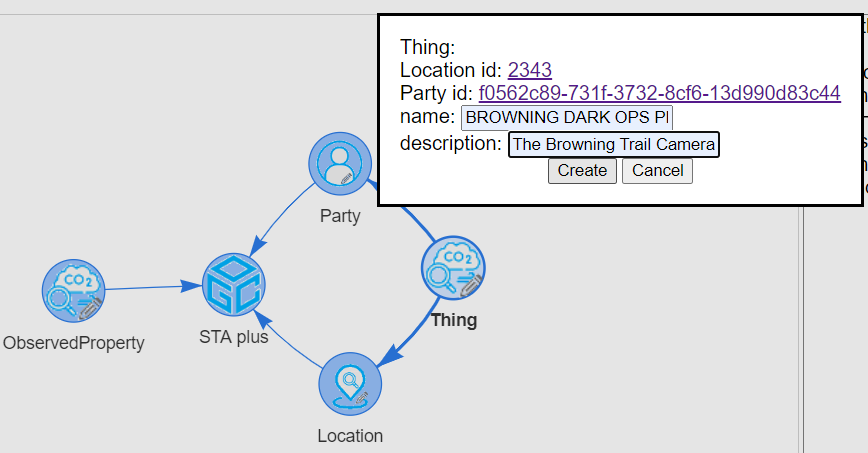
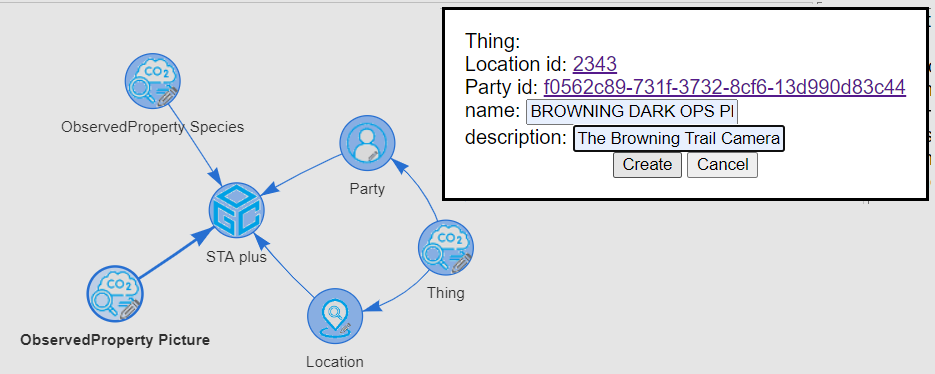
Finalizing recipe 06

Changed region(s): [[0.0, 0.0, 1.0, 1.0], [0.1244, 0.1471, 0.2177, 0.2941], [0.0622, 0.3235, 0.28, 0.3824]]

diff --git a/help/index.htm b/help/index.htm
@@ -77,7 +77,7 @@ The workspace of Tapis can be divided in the following areas
 
 <a id="helpStart"></a>
 <h3>How start with TAPIS</h3>
-The first thing that you need to do in Tapis is page a starting node in the network area. Examples of starting nodes are "Add STA service",  "Import CSV file" or Import GeoJSON file. Clicking on them in the <i>button area</i> will place them in the <i>network area</i>. Double clicking on their representation in the network area will make appear dialog box to specify the parameters necessary to import the data in Tapis. After accepting the options messages about the progress and eventual errors will appear in the <i>Information area</i>. The result of the operation will be represented as a table in the <i>Query and table area</i> (a STA query will also be shown if the node is a STA node; the ones with blue icons).
+The first thing that you need to do in Tapis is page a starting node in the network area. Examples of starting nodes are "Add STA service",  "Import CSV file" or Import GeoJSON file. Clicking on them in the <i>button area</i> will place them in the <i>network area</i>. Doubleclicking on their representation in the network area will make appear dialog box to specify the parameters necessary to import the data in Tapis. After accepting the options messages about the progress and eventual errors will appear in the <i>Information area</i>. The result of the operation will be represented as a table in the <i>Query and table area</i> (a STA query will also be shown if the node is a STA node; the ones with blue icons).
 <p>
 Next thing is connecting other nodes to the starting nodes. 
 
@@ -205,7 +205,7 @@ Finally, we will be able to see the Observations about Temperature done by Joan 
 <img src="recipe02_01_observations.png" width="600" class="center">
 
 <p>
-By double clicking the "Table" tool, we will see the observations as a table with the properties that the Entity "Observations" has in the diagram: phenomenonTime (the time where the sample was collected), result (the actual value of the temperature) and resultTime (the time the observation was determined and recorded). If we look at the table, we can see that we get 100 observations and time is increasing so we can assume they are in order starting by the earliest one.<br>
+By doubleclicking the "Table" tool, we will see the observations as a table with the properties that the Entity "Observations" has in the diagram: phenomenonTime (the time where the sample was collected), result (the actual value of the temperature) and resultTime (the time the observation was determined and recorded). If we look at the table, we can see that we get 100 observations and time is increasing so we can assume they are in order starting by the earliest one.<br>
 <img src="recipe02_01_observationsTable.png" width="400" class="center">
 
 <p>
@@ -766,15 +766,15 @@ Now that we have a time series we can use the scater plot tool to generate a tem
 <br>
 <hr width="30%">
 <a id="recipe06"></a>
-<h3>Recipe 6: Creating a new stream of observations</h3>
-In this example, we illustrate how to create a new stream of obeservations in STAplus.
+<h3>Recipe 6: Creating two new datastream of observations</h3>
+In this example, we illustrate how to store two datastreams of observations that are related in STAplus. The concrete case is a fixed camera trap that is installed in the woods and takes a short sequence of pictures of an animal that is latter identified as a particular species. The pictures are stored and described in a datastream and the identification (occurrence) of the species is stored in another datastream. Each small set of pictures and the occurrence is grouped in an observation group.   
 
 <p>
-The first think that we need is to login in order to be able to write in the STA service using the login button<br>
+Commonly you cannot write in a STA service without permissions. The first think that we need is order to be able to write in the STA service using the login button<br>
 <img src="recipe06_loginButton.png" width="600" class="center">
 
 <p>
-The login facility does not have specify users. Instead it uses preexisting user names created in other platforms. In the Authenix window select your platform or institution integrated in Edugain and follow the instructions to login. If you are previously logged in the Authenix window will open and close with no need for interaction.
+The login mechanims in Tapis is called Authenix. Authenix does not manage users. Instead it uses preexisting user names created in other platforms. In the Authenix window select your platform or institution integrated in Edugain and follow the instructions to login. If you are previously logged in the Authenix window will open and close with no need for interaction.
 <br>
 <img src="recipe06_authenix.png" width="400" class="center">
 
@@ -789,7 +789,7 @@ Now select the <i>Add STA service</i> button and select a STA service where you 
 <img src="recipe06_STAplus.png" width="600" class="center">
 
 <p>
-We will start by creating a Party. Do not worry, if the party already exists it will be retrieved instead. A right click on the STAplus will open a context menu to select <i>Party</i>. (please note that you should select the family of bottons with the entity names in singular that have a icon with a little pencil.
+Since the camera trap is owned by the same person that owns the pictures and does the identifiacion, we will start by creating a single <i>Party</i> for everthing. Do not worry, if the party already exists it will be retrieved instead. A right click on the STAplus will open a context menu to select <i>Party</i>. (please note that you should select the family of bottons with the entity names in singular that have a icon with a little pencil.
 <br>
 <img src="recipe06_partyButton.png" width="600" class="center">
 
@@ -809,9 +809,14 @@ The Query and Table area will show the description of the Party.
 <img src="recipe06_partyTable.png" width="600" class="center">
 
 <p>
-The same procedure can be used to create an <i>ObservedProperty</i>. In this case, you should populate the requered information before pressing [Create].
+The same procedure can be used to create an <i>ObservedProperty</i>. In this case, we start by creating the identification (occurrence) observed property. You should populate the requered information before pressing [Create]. In particular we use the Species definition in GBIF as URI definition (https://en.wikipedia.org/wiki/Image).
 <br>
 <img src="recipe06_observedPropertyCreation.png" width="600" class="center">
+
+<p>
+The other observedProperty is the Picture itself. In this case, you should populate the requered information before pressing [Create]. To make things simple, we use the wikipedia definition of an image (https://en.wikipedia.org/wiki/Image).
+<br>
+<img src="recipe06_pictureObservedPropertyCreation.png" width="600" class="center">
 
 <p>
 Now we can create a <i>Location</i> where the <i>Thing</i> is placed. In this case this is the position of a Camera trap. Again, you should populate the requered information including the position (in this case represented by a point) before pressing [Create]. The encodingType property is fixed to application/geo+json.
@@ -819,11 +824,133 @@ Now we can create a <i>Location</i> where the <i>Thing</i> is placed. In this ca
 <img src="recipe06_locationCreation.png" width="600" class="center">
 
 <p>
-Once the <i>Location</i> and the <i>Party</i> are created, is is possible to create a <i>Thing</i> that is connected to both elements. By right clickin in the Location and selecting the [Thing] botton we have the first connection and the second connection can be done using the [Connect two nodes] button. In this case this is the Camera trap itself. In the window, the connections to both objects are indicated and you should populate the requered information only a name and a description before pressing [Create].
+Once the <i>Location</i> and the <i>Party</i> are created, it is possible to create a <i>Thing</i> that is connected to both elements. By right clicking in the Location and selecting the [Thing] botton we have the first connection and the second connection can be done using the [Connect two nodes] button. In this case this is the Camera trap itself. In the window, the connections to both objects are indicated and you should populate the requered information only a name and a description before pressing [Create].
 <br>
 <img src="recipe06_thingCreation.png" width="600" class="center">
 
+<p>
+The second <i>Thing</i> that we will need is the Citizen itself, that has an irrelevant location when the identification was done (probably at home reviewing the pictures downloaded from the camera trap. By right clicking in the STA plus, we will select the [Thing] botton and create a second connection using the [Connect two nodes] button to the Party. In the window, the connections to both objects are indicated and you should populate the requered information only a name and a description before pressing [Create]. The illustration shows the result of it.
+<br>
+<img src="recipe06_CitizenThingCreation.png" width="600" class="center">
 
+<p>
+Now two <i>Sensors</i> are created, the first one for the human sensor. By right clicking in the STA plus and selecting the [Sensor] botton. In the window, you should populate the requered information only a name and a description before pressing [Create].
+<br>
+<img src="recipe06_humanSensorCreation.png" width="600" class="center">
+
+<p>
+The second <i>Sensor</i> is the optics and CCD inside the camera trap. By right clicking in the STA plus and selecting the [Sensor] botton. In the window, you should populate the requered information only a name and a description before pressing [Create].
+<br>
+<img src="recipe06_cameraSensorCreation.png" width="600" class="center">
+
+<p>
+Some Creative Commons licenses are already created in the STA plus, so in this case we will use the <i>Licenses</i> to request all the licences in the STA. Then by right clicking in the <i>Licenses</i> we will add the Select Row tool (the one with a blue icon) and by doubleclicking in it, we can select the license we want. In this case, we will select CC-BY.
+<br>
+<img src="recipe06_cc-bySelection.png" width="600" class="center">
+
+<p>
+Now we have all the elements necessary to create two DataStreams. 
+DataStream is a complicated object that is connected to <i>Sensor</i>, <i>Thing</i>, <i>ObservedProperty</i>, <i>Party</i> and <i>License</i>. 
+This can be a bit confusing so, before starting, we will organize the entities that are related to the "camera/picture" in on side (to the top, in the illustration) 
+and the ones related with "citizen/identification" on the other side (to the bottomin the illustration). 
+Then, we will start by right clicking in one of the entities related to the "camera/picture" and selecting <i>Datastream</i>, and using the "Connect node" botton for generating the other four connections.
+By doubleclicking in the <i>Datastream</i> we will see the five relations and you should populate the requered information; in our case only a name and a description (due to, there is no units of measure in this case) before pressing [Create].
+<br>
+<img src="recipe06_picturesDatastreamCreation.png" width="600" class="center">
+
+<p>
+Now, we will start by right clicking in one of the entities related to the "human/identification" and selecting <i>Datastream</i>, and using the "Connect node" botton for generating the other four connections.
+<br>
+<img src="recipe06_connectNodeDatastreamCreation.png" width="600" class="center">
+
+<p>
+By doubleclicking in the <i>Datastream</i> we will see the five relations and you should populate the requered information before pressing [Create].
+<br>
+<img src="recipe06_occurrenceDatastreamCreation.png" width="600" class="center">
+
+<p>
+Now, everything is prepared for illustrating how to create the observations. We should start by creating one ObservationGroup that will be connected to occurrence observations and image observations. This entity can be connected at least to the <i>Party</i> and <i>License</i>. You should populate the requered information before pressing [Create]. 
+<br>
+<img src="recipe06_observationGroupCreation.png" width="600" class="center">
+
+<p>
+We cannot start creating observations without a <i>FeatureOfInterest</i>. Since the FeatureOfInterest can not be connected to anything, it should be created by right clicking on the <i>STA plus</i> entity. You should populate the requered information, including the coordinates of the occurrence before pressing [Create].
+<br>
+<img src="recipe06_featureOfInterestCreation.png" width="600" class="center">
+
+<p>
+Now all the elements to be connected to observations are there. To create a "picture" observation you can right click the ObservationGroup and select the <i>Observation</i>. Then we should connect the Observation to the <i>FeatureOfInterest</i> and <i>Datastream</i> related to "camera/images".
+<br>
+<img src="recipe06_linkPictureObservationCreation.png" width="600" class="center">
+
+<p>
+You should populate the requered information before pressing [Create], being the most important the "result".
+<br>
+<img src="recipe06_pictureObservationCreation.png" width="600" class="center">
+
+<p>
+In this case, the "result" is the full URL of the picture that was previously stored in a external repository and the phenomenonTime is the time when the picture was taken.
+<br>
+<img src="recipe06_pictureObservationResult.png" width="300" class="center">
+
+<p>
+To create a "occurrence" observation you can right click the ObservationGroup and select the <i>Observation</i>. Then we should connect the Observation to the <i>FeatureOfInterest</i> and <i>Datastream</i> related to "identifications/occurrences".
+<br>
+<img src="recipe06_linkOccurObservationCreation.png" width="600" class="center">
+
+<p>
+By doubleclicking in the observation, you should populate the requered information before pressing [Create].
+<br>
+<img src="recipe06_occurObservationCreation.png" width="600" class="center">
+
+<p>
+In this case, the "result" the full URL of the species name in GBIF (https://www.gbif.org/species/7193910), and the phenomenonTime is the time when the picture was taken and the occurrence happened.
+<br>
+<img src="recipe06_occurObservationResult.png" width="1000" class="center">
+
+<p>
+You can add as many Observations and ObservationGroups as needed repeating the same procedure.
+
+<P>
+A partial result of the created observation group can be retrieved from the following query: <a href="https://citiobs.demo.secure-dimensions.de/staplustest/v1.1/ObservationGroups(232753)?$expand=Observations($select=result,phenomenonTime;$expand=Datastream($select=description;$expand=ObservedProperty($select=description)))" target="_blank">https://citiobs.demo.secure-dimensions.de/staplustest/v1.1/ObservationGroups(232753)?$expand=Observations($select=result,phenomenonTime;$expand=Datastream($select=description;$expand=ObservedProperty($select=description)))</a>
+
+<textarea rows="30" cols="80" style="white-space: pre; overflow-wrap: normal; overflow-x: scroll;" readonly>
+{
+  "@iot.selfLink": "https://citiobs.demo.secure-dimensions.de/staplustest/v1.1/ObservationGroups(232753)",
+  "@iot.id": 232753,
+  "name": "GatFerOcc1",
+  "description": "Felis silvestris Occurrence 1",
+  "creationTime": "2024-07-12T17:30:00Z",
+  "endTime": "2024-07-12T17:30:00Z",
+  "Observations": [
+    {
+      "result": "https://www.infoambiental.grumets.cat/AD4GD_CameraTrap/20240712_1930_C3/20240712_1930_C3_04.JPG",
+      "phenomenonTime": "2024-07-12T17:30:00Z",
+      "Datastream": {
+        "description": "Pictures with an animal inside",
+        "ObservedProperty": {
+          "description": "Pictorial image"
+        }
+      }
+    },
+    {
+      "result": "https://www.gbif.org/species/7193910",
+      "phenomenonTime": "2024-07-12T17:30:00Z",
+      "Datastream": {
+        "description": "Species occurrence",
+        "ObservedProperty": {
+          "description": "Species Name"
+        }
+      }
+    }
+  ],
+  "License@iot.navigationLink": "https://citiobs.demo.secure-dimensions.de/staplustest/v1.1/ObservationGroups(232753)/License",
+  "Party@iot.navigationLink": "https://citiobs.demo.secure-dimensions.de/staplustest/v1.1/ObservationGroups(232753)/Party",
+  "Campaigns@iot.navigationLink": "https://citiobs.demo.secure-dimensions.de/staplustest/v1.1/ObservationGroups(232753)/Campaigns",
+  "Observations@iot.navigationLink": "https://citiobs.demo.secure-dimensions.de/staplustest/v1.1/ObservationGroups(232753)/Observations",
+  "Relations@iot.navigationLink": "https://citiobs.demo.secure-dimensions.de/staplustest/v1.1/ObservationGroups(232753)/Relations"
+}
+</textarea>
 <br><br><br>
 
 

diff --git a/index.htm b/index.htm
@@ -2588,25 +2588,43 @@ async function requestAndRefreshCountResults(currentNode, period) {
 			var objArray=Object.keys(obj);
 			for (var i=0; i<objArray.length; i++)
 			{
-				if (typeof obj[objArray[i]]==="object")
+				var propName=objArray[i];
+				var value=obj[propName];
+				if (value==null)  //Do not consider null properties in the queries
+ 					continue;
+				if (typeof value==="object")
 				{
-					if (objArray[i]=="feature")
-						url+=(url=="" ? "" : " and ") + "st_equals(feature, geography'POINT (" + obj[objArray[i]].geometry.coordinates[0] + " " + obj[objArray[i]].geometry.coordinates[1] + ")')";
-					else if (Array.isArray(obj[objArray[i]]) && obj[objArray[i]].length==1 && typeof obj[objArray[i]][0]==="object")
-						url=AddKeysToFilter(url, obj[objArray[i]][0], prefix ? prefix + "/" + objArray[i] : objArray[i]);
+					if (propName=="feature" || propName=="location"){
+						var coords;
+						if (value.geometry && value.geometry.coordinates)
+							coords=value.geometry.coordinates;
+						else if (value.coordinates)
+							coords=value.coordinates;
+						else {
+							alert("Wrong format for 'feature' or 'location'. I cannot find the coordinates.");
+							continue;
+						}
+						if (!Array.isArray(coords) || 
+							coords.length<2 || 
+							Array.isArray(coords[0]) || Array.isArray(coords[1])) {
+							alert("The coordinates format for 'feature' or 'location' is not supported. Only a Point structure is supported: Array of two decimal numbers.");
+							continue;
+						}
+						url+=(url=="" ? "" : " and ") + "st_equals(" + propName + ", geography'POINT (" + coords[0] + " " + coords[1] + ")')";
+					}
+					else if (Array.isArray(value) && value.length==1 && typeof value[0]==="object")
+						url=AddKeysToFilter(url, value[0], prefix ? prefix + "/" + propName : propName);
 					else
-						url=AddKeysToFilter(url, obj[objArray[i]], prefix ? prefix + "/" + objArray[i] : objArray[i]);
+						url=AddKeysToFilter(url, value, prefix ? prefix + "/" + propName : propName);
+					continue;
 				}
-				else if (objArray[i]=="encodingType")
+				if (propName=="encodingType")
 					continue;  //I'm ignoring this element in the queries.
+				url+=(url=="" ? "" : " and ") + (prefix ? prefix + "/" : "")+ propName + " eq ";
+				if (typeof value==="number" || propName=="resultTime" || propName=="phenomenonTime" || propName=="validTime" || propName=="creationTime" || propName=="startTime" || propName=="endTime")
+					url+=value;
 				else
-				{
-					url+=(url=="" ? "" : " and ") + (prefix ? prefix + "/" : "")+ objArray[i] + " eq ";
-					if (typeof obj[objArray[i]]==="number" || objArray[i]=="resultTime" || objArray[i]=="phenomenonTime")
-						url+=obj[objArray[i]];
-					else
-						url+="'" + obj[objArray[i]] + "'";
-				}
+					url+="'" + value + "'";
 			}
 			return url;
 		}
@@ -2906,7 +2924,8 @@ async function requestAndRefreshCountResults(currentNode, period) {
 			}
 
 			for (var i=0; i<STAEntities[entityName].properties.length; i++){
-				if (entityName=="Observations" ? STAEntities[entityName].properties[i]=="parameters" : STAEntities[entityName].properties[i]=="properties")
+				if ((entityName=="Observations" ? STAEntities[entityName].properties[i]=="parameters" : STAEntities[entityName].properties[i]=="properties") || 
+					((entityName=="Datastreams" || entityName=="MultiDatastreams") && (STAEntities[entityName].properties[i]=="observedArea" || STAEntities[entityName].properties[i]=="phenomenonTime" || STAEntities[entityName].properties[i]=="resultTime")))
 					continue;
 				if ((entityName=="Locations" && STAEntities[entityName].properties[i]=="location") || 
 				    (entityName=="FeaturesOfInterest" && STAEntities[entityName].properties[i]=="feature"))
@@ -2919,6 +2938,17 @@ async function requestAndRefreshCountResults(currentNode, period) {
 						'</fieldset>',
 						'<br>');
 					continue;	
+				}
+				if (entityName=="Datastreams" && STAEntities[entityName].properties[i]=="unitOfMeasurement") {
+					//Something similar needs to be done for MultiDataStream
+					cdns.push('<fieldset>',
+						'<legend>', STAEntities[entityName].properties[i], ':</legend>',
+						'<label for="dlgCreateUpdateDeleteEntity_', STAEntities[entityName].properties[i], '_name">', 'name: </label><input id="dlgCreateUpdateDeleteEntity_', STAEntities[entityName].properties[i], '_name" type="text"><br>',
+						'<label for="dlgCreateUpdateDeleteEntity_', STAEntities[entityName].properties[i], '_symbol">', 'symbol: </label><input id="dlgCreateUpdateDeleteEntity_', STAEntities[entityName].properties[i], '_symbol" type="text"><br>',
+						'<label for="dlgCreateUpdateDeleteEntity_', STAEntities[entityName].properties[i], '_definition">', 'definition: </label><input id="dlgCreateUpdateDeleteEntity_', STAEntities[entityName].properties[i], '_definition" type="text"><br>',
+						'</fieldset>',
+						'<br>');
+					continue;
 				}
 				cdns.push('<label for="dlgCreateUpdateDeleteEntity_', STAEntities[entityName].properties[i], '">', STAEntities[entityName].properties[i], ': </label><input id="dlgCreateUpdateDeleteEntity_', STAEntities[entityName].properties[i], '" type="text"><br>');
 			}
@@ -2941,17 +2971,17 @@ async function requestAndRefreshCountResults(currentNode, period) {
 				//Create
 				if (entityName=="Parties" && CriptoName && CriptoName!="Anonymous") {
 					document.getElementById("dlgCreateUpdateDeleteEntity_authId").value=CriptoName;
-					for (var i=0; i<STAEntities[entityName].properties.length; i++) {
-						if (entityName=="Observations" ? STAEntities[entityName].properties[i]=="parameters" : STAEntities[entityName].properties[i]=="properties")
-							continue;
+					for (var i=0; i<STAEntities[entityName].properties.length; i++)
 						document.getElementById("dlgCreateUpdateDeleteEntity_"+STAEntities[entityName].properties[i]).readOnly=true;
-					}
 				}
 				else if (entityName=="Locations" || entityName=="FeaturesOfInterest")
 				{
 					document.getElementById("dlgCreateUpdateDeleteEntity_encodingType").value="application/geo+json";
 					document.getElementById("dlgCreateUpdateDeleteEntity_encodingType").readOnly=true;	
 				}
+				else if (entityName=="Datastreams")	
+					document.getElementById("dlgCreateUpdateDeleteEntity_observationType").value="http://www.opengis.net/def/observationType/OGC-OM/2.0/OM_Measurement";
+
 				document.getElementById("dlgCreateUpdateDeleteEntityCreate").style.display="inline-block";
 				document.getElementById("dlgCreateUpdateDeleteEntityUpdate").style.display="none";
 				document.getElementById("dlgCreateUpdateDeleteEntityDelete").style.display="none";
@@ -3021,7 +3051,8 @@ async function requestAndRefreshCountResults(currentNode, period) {
 			}
 			var prop;
 			for (var i=0; i<STAEntities[entityName].properties.length; i++) {
-				if (entityName=="Observations" ? STAEntities[entityName].properties[i]=="parameters" : STAEntities[entityName].properties[i]=="properties")
+				if ((entityName=="Observations" ? STAEntities[entityName].properties[i]=="parameters" : STAEntities[entityName].properties[i]=="properties") || 
+					((entityName=="Datastreams" || entityName=="MultiDatastreams") && (STAEntities[entityName].properties[i]=="observedArea" || STAEntities[entityName].properties[i]=="phenomenonTime" || STAEntities[entityName].properties[i]=="resultTime")))
 					continue;
 				if ((entityName=="Locations" && STAEntities[entityName].properties[i]=="location") || 
 				    (entityName=="FeaturesOfInterest" && STAEntities[entityName].properties[i]=="feature"))
@@ -3032,6 +3063,15 @@ async function requestAndRefreshCountResults(currentNode, period) {
 					obj[STAEntities[entityName].properties[i]].coordinates[1]=parseFloat(document.getElementById("dlgCreateUpdateDeleteEntity_"+STAEntities[entityName].properties[i]+"_latitude").value);
 					continue;	
 				}
+				if (entityName=="Datastreams" && STAEntities[entityName].properties[i]=="unitOfMeasurement")
+				{
+					//Something similar needs to be done for MultiDataStream
+					obj[STAEntities[entityName].properties[i]]={};
+					obj[STAEntities[entityName].properties[i]].name=document.getElementById("dlgCreateUpdateDeleteEntity_" + STAEntities[entityName].properties[i] + "_name").value ? document.getElementById("dlgCreateUpdateDeleteEntity_" + STAEntities[entityName].properties[i] + "_name").value : null;
+					obj[STAEntities[entityName].properties[i]].symbol=document.getElementById("dlgCreateUpdateDeleteEntity_" + STAEntities[entityName].properties[i] + "_symbol").value ? document.getElementById("dlgCreateUpdateDeleteEntity_" + STAEntities[entityName].properties[i] + "_symbol").value : null; 
+					obj[STAEntities[entityName].properties[i]].definition=document.getElementById("dlgCreateUpdateDeleteEntity_" + STAEntities[entityName].properties[i] + "_definition").value ? document.getElementById("dlgCreateUpdateDeleteEntity_" + STAEntities[entityName].properties[i] + "_definition").value : null;
+					continue;
+				}
 				prop=document.getElementById("dlgCreateUpdateDeleteEntity_"+STAEntities[entityName].properties[i]).value;
 				if (prop!=="")
 					obj[STAEntities[entityName].properties[i]]=(entityName=="Observations" && STAEntities[entityName].properties[i]=="result" && !isNaN(prop)) ? parseFloat(prop) : prop;
@@ -3041,7 +3081,8 @@ async function requestAndRefreshCountResults(currentNode, period) {
 				function(value) {
 					if (value)
 					{ 
-						showInfoMessage('Available at: <a href="', getUrlToId(url, entityName, value), '" target="_blank">' + value + '</a>');
+						document.getElementById("DialogCreateUpdateDeleteEntity").close();
+						showInfoMessage('Available at: <a href="' + getUrlToId(url, entityName, value) + '" target="_blank">' + value + '</a>');
 						node.STAURL=getUrlToId(url, entityName, value);
 						node.STAdata=[];
 						node.STAdata.push(obj);
@@ -4215,7 +4256,7 @@ async function requestAndRefreshCountResults(currentNode, period) {
 			dataAttributes=deapCopy(jsonschema.properties.features.items.properties.properties.properties);
 			dataAttributes["geometry"]={
 				"type": "object",
-				"definition": "DataStream/Observations/FeatureOfInterest/feature/geometry"
+				"definition": "Datastream/Observations/FeatureOfInterest/feature/geometry"
 			};
 			return dataAttributes;
 		}
@@ -5048,7 +5089,7 @@ async function requestAndRefreshCountResults(currentNode, period) {
 				else if (currentNode.image == "ObservedProperty.png" || currentNode.image == "Observation.png" || 
 					currentNode.image == "FeatureOfInterest.png" || currentNode.image == "Sensor.png" || 
 					currentNode.image == "Thing.png" || currentNode.image == "Location.png" || 
-					currentNode.image == "HistoricalLocation.png" || currentNode.image == "DataStream.png" || 
+					currentNode.image == "HistoricalLocation.png" || currentNode.image == "Datastream.png" || 
 					currentNode.image == "MultiDatastream.png" || currentNode.image == "Party.png" || 
 					currentNode.image == "Campaign.png" || currentNode.image == "License.png" || 
 					currentNode.image == "ObservationGroup.png" || currentNode.image == "Relation.png") {
